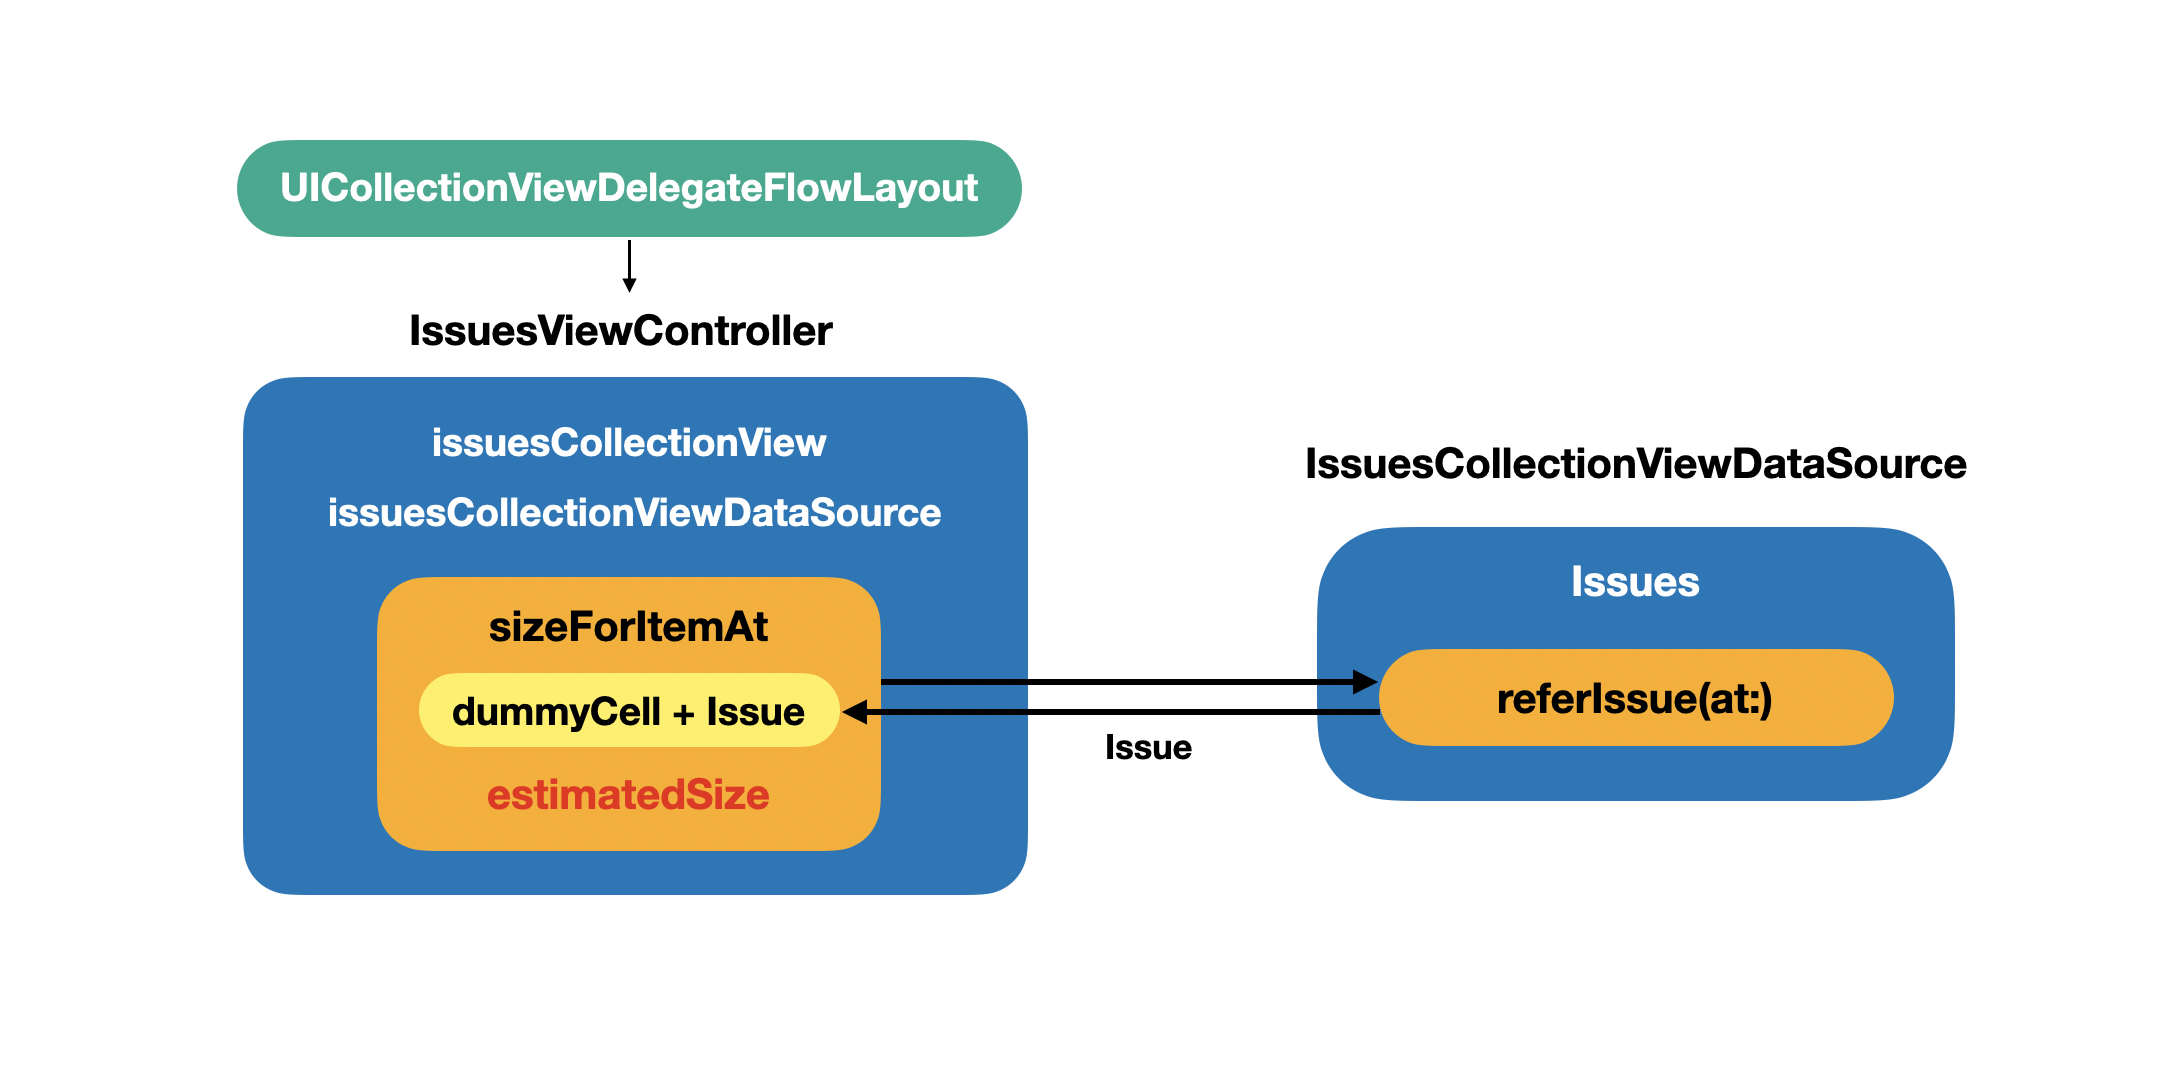
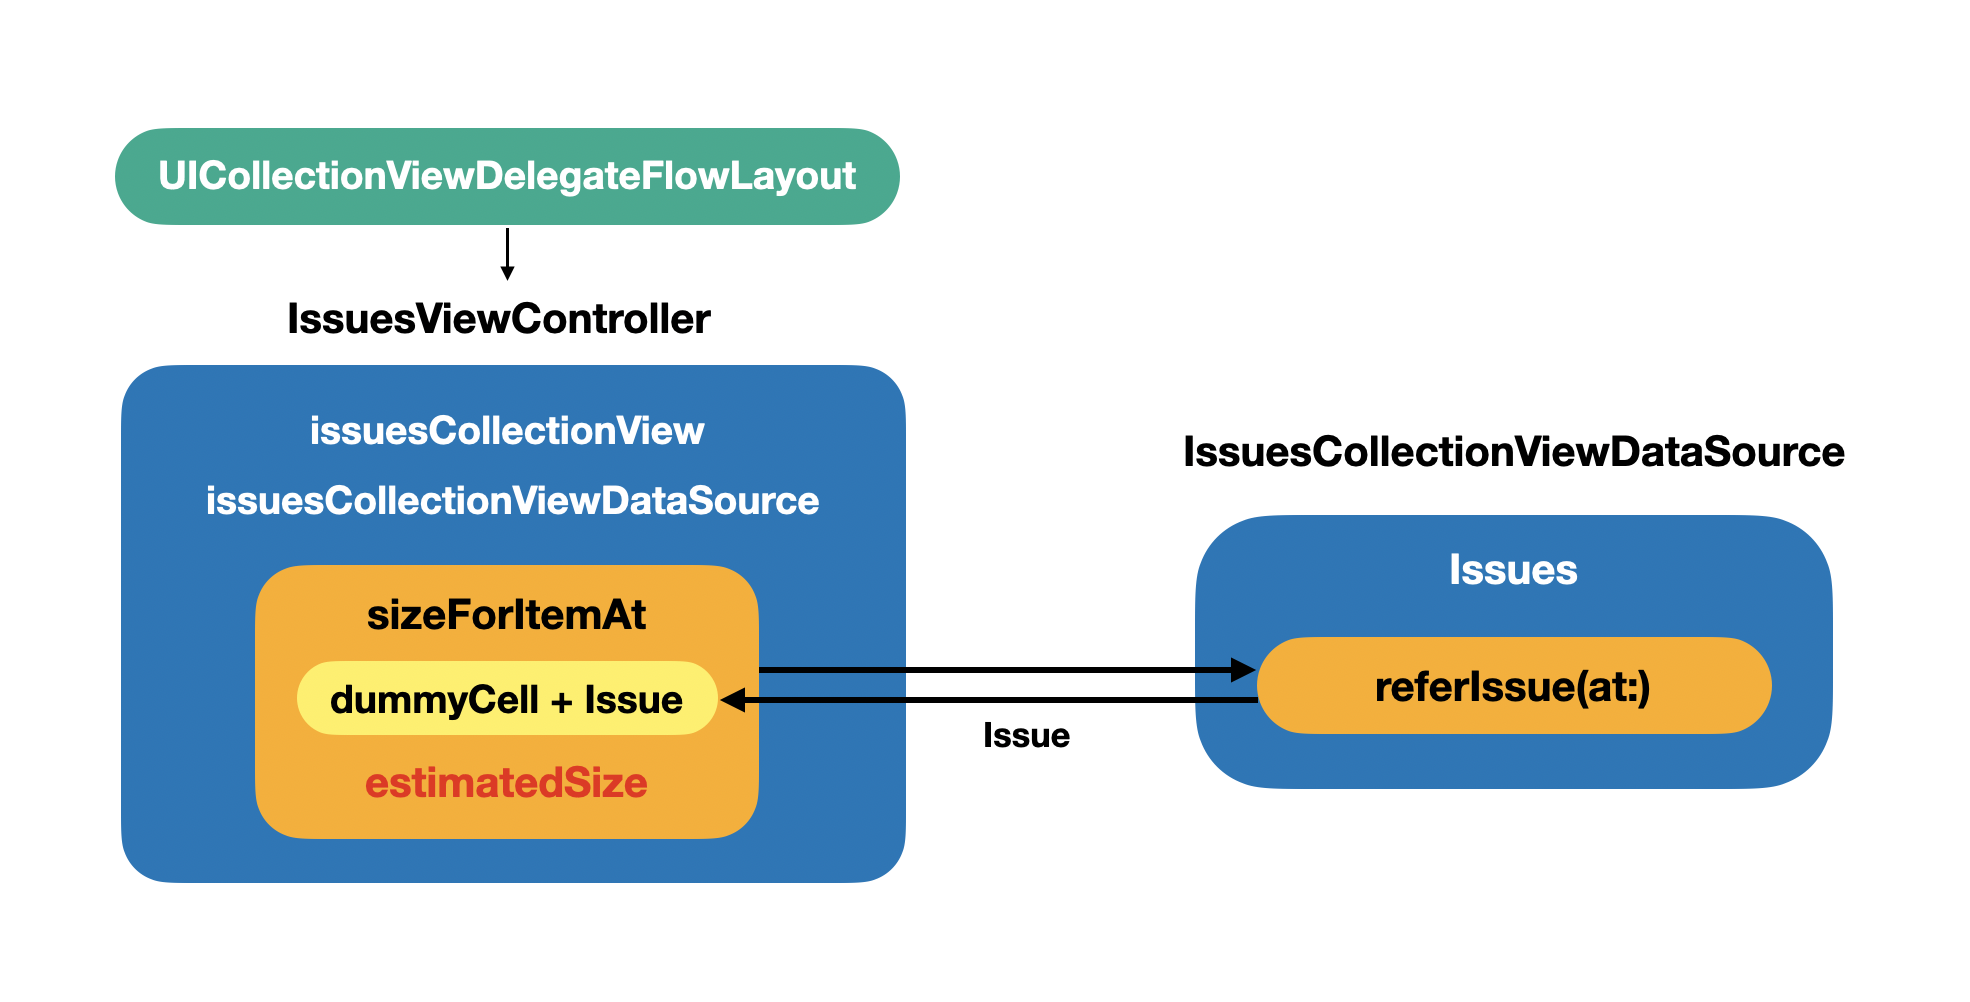
edit: 이미지 사이즈 조정

Changed region(s): [[0.0619, 0.2784, 0.9599, 0.8972], [0.0619, 0.1238, 0.4954, 0.2475], [0.5883, 0.5259, 0.6193, 0.5569]]

diff --git a/_posts/2020-07-03-UICollectionViewCell-dynamic-height.md b/_posts/2020-07-03-UICollectionViewCell-dynamic-height.md
@@ -118,8 +118,9 @@ func collectionView(
 이제 실제 cell보다 넉넉하게 만들어진 dummy cell에 실제 데이터를 넣어줘야합니다. 현재 `IssuesCollectionView`의 상위 객체인 `IssuesViewController`는 아래 그림과 같은 구조로 구성되어있습니다. `IssuesCollectionViewDataSource`는 분리된 클래스로 뷰모델 역할을 하여 서버로부터 이슈 정보를 가져오면 `IssuesCollectionView`를 reload 하도록 바인딩되어있습니다. 
 
 <p align="center">
-  <img src="/assets/images/collectionview-cell-dynamic-height/vc-datasource.png" width="720px">
+  <img src="/assets/images/collectionview-cell-dynamic-height/vc-datasource.png" width="800px">
 </p>
+
 
 이슈 데이터는 모두 **dataSource**가 가지고 있기 때문에 dataSource에 있는 실제 데이터를 가져오기 위해서 `referIssue(at:handler:)` 메소드를 사용합니다. handler라는 클로저 매개변수를 사용하여 dataSource의 특정 indexPath의 이슈 데이터를 사용할 수 있습니다.
 
